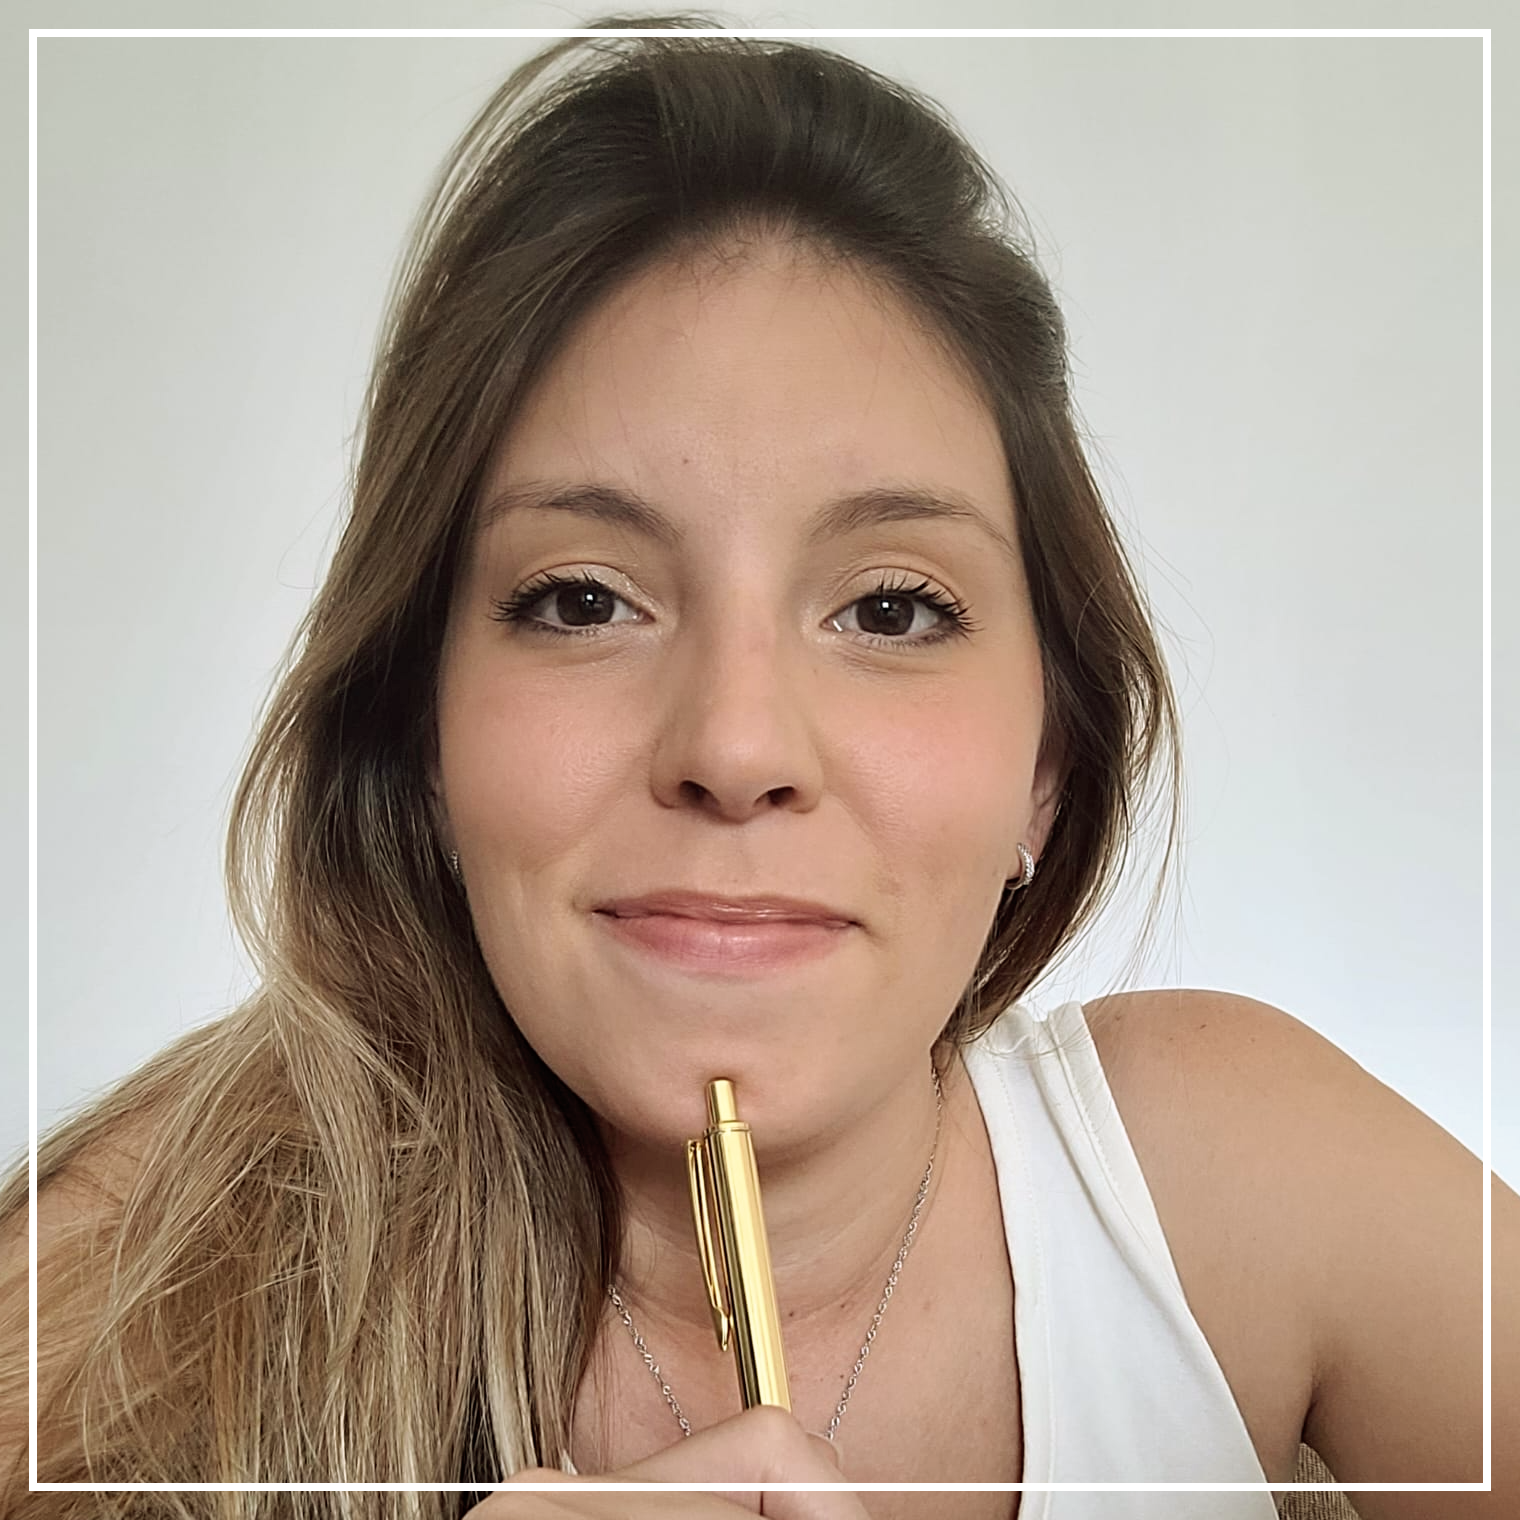
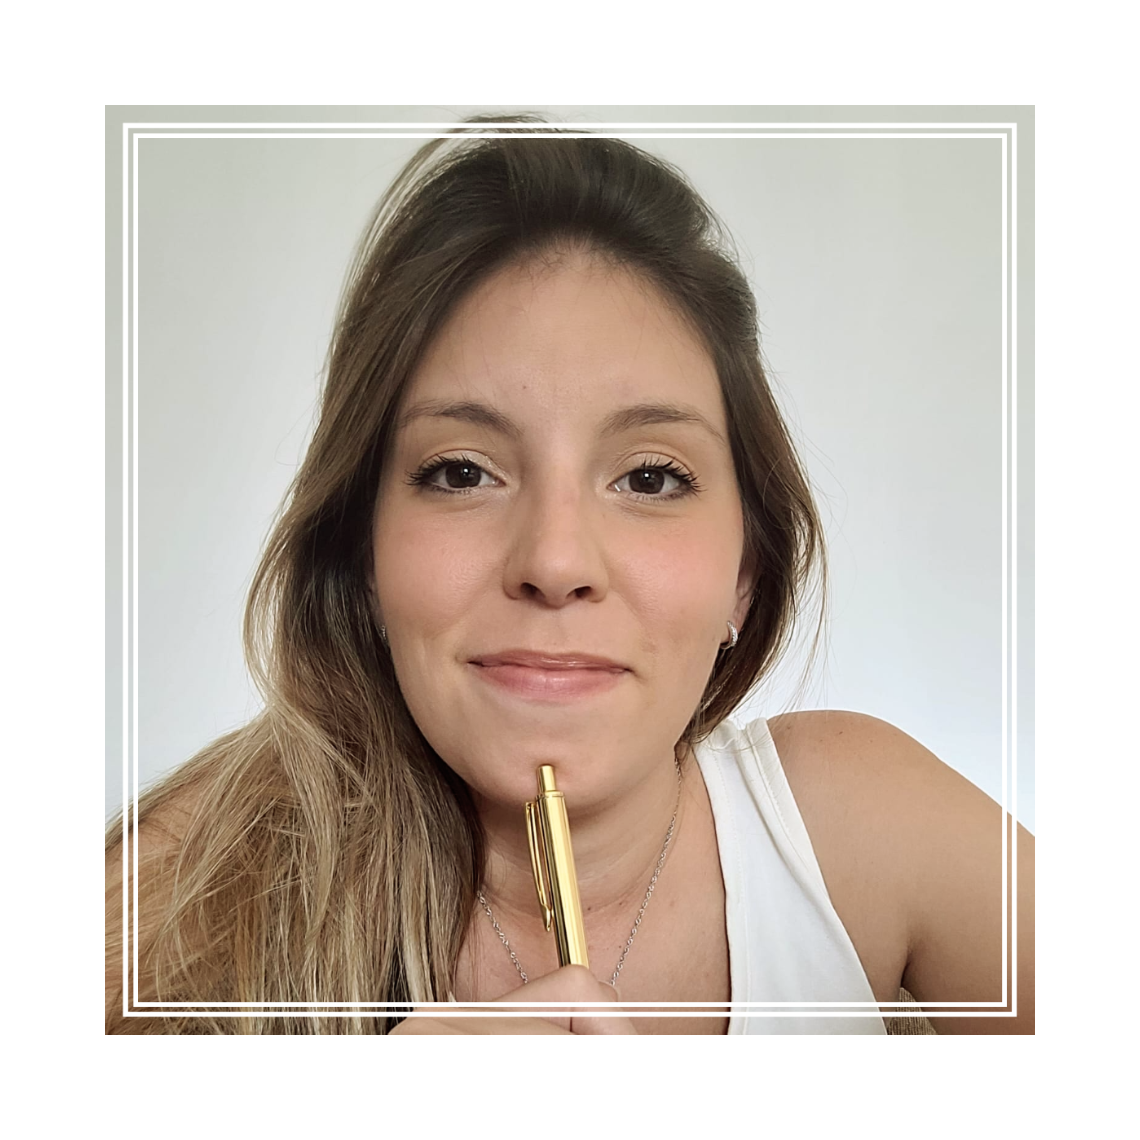
Prueba imagen mas lejos para face

diff --git a/index.html b/index.html
@@ -7,7 +7,7 @@
 
     <meta property="og:title" content="Los Links de Marian" />
     <meta property="og:description" content="Acá vas a encontrar links e información sobre Mariana Matascuso" />
-    <meta property="og:image" content="images/maruseria2.png" />
+    <meta property="og:image" content="images/maruseria.png" />
 
     <meta property="twitter:title" content="Maru's Links" />
     <meta property="twitter:description" content="Acá vas a encontrar links e información sobre Marianita Matascuso, que está aprendiendo a programar! Barrilete cósmico!" >
